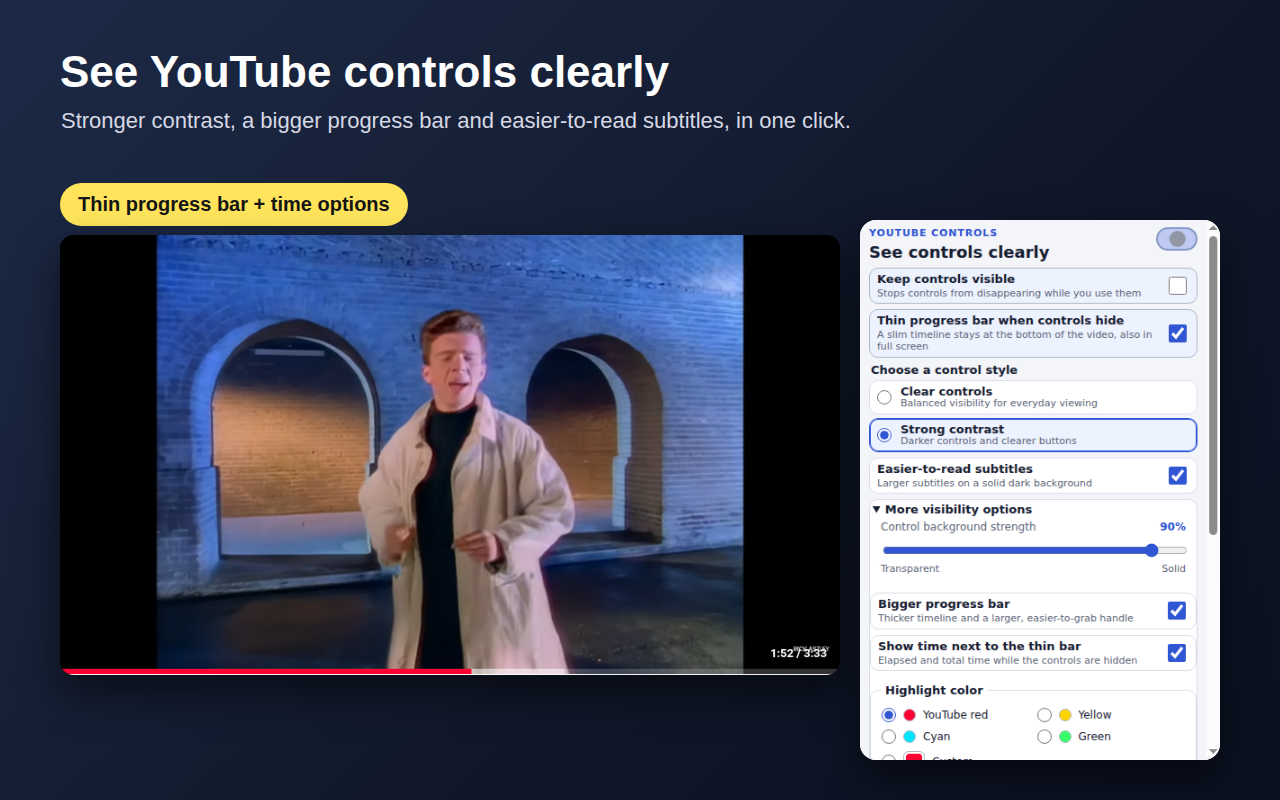
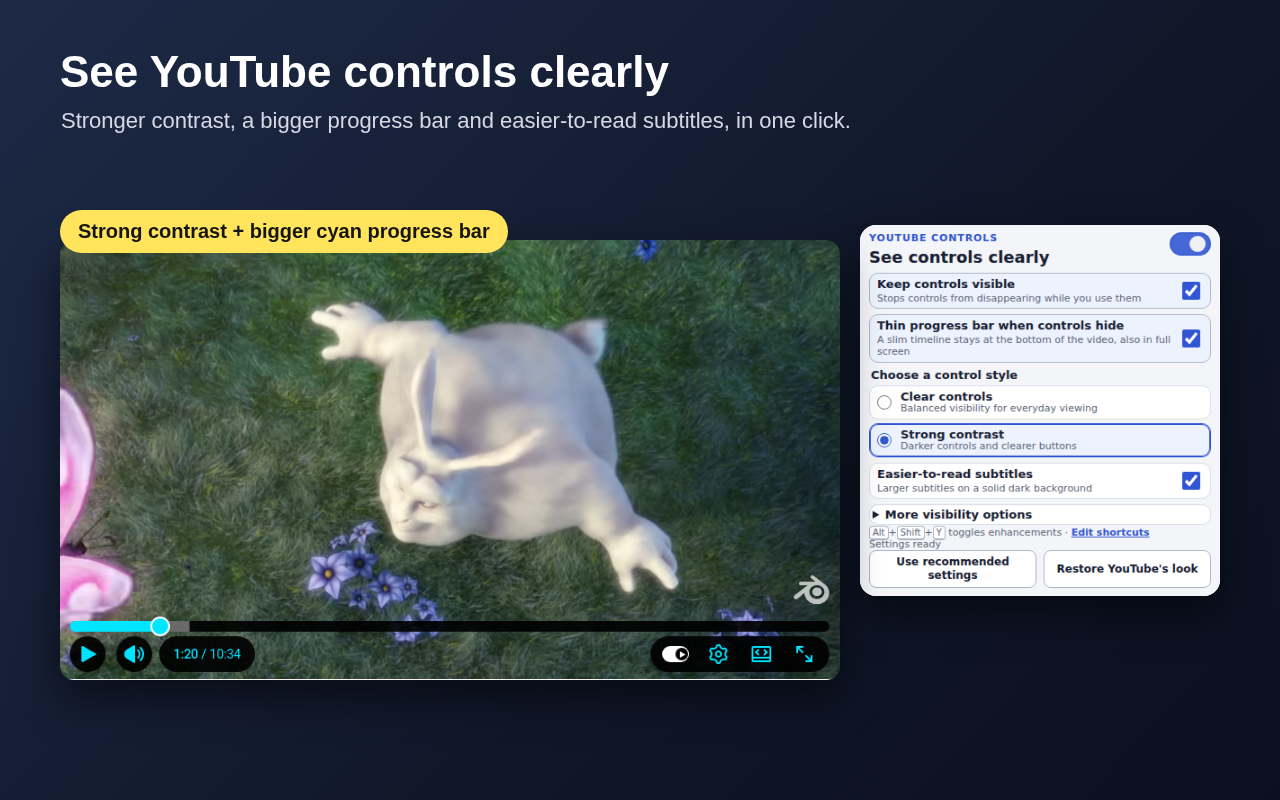
Fix store screenshot 2 popup state

diff --git a/store-assets/SCREENSHOTS_GUIDE.md b/store-assets/SCREENSHOTS_GUIDE.md
@@ -16,8 +16,9 @@ headlines and arranging real captures on a branded background is fine.
    Headline: **A progress bar that stays visible**. Subline: **Even when
    YouTube hides the controls, also in full screen**. Capture around 40–60% of
    a video and choose a scene where the red bar is easy to see.
-2. `screenshot2.png`: player with the current popup open, including the thin-bar
-   and time options. Re-capture it when popup rows change.
+2. `screenshot2.png`: player with the enabled popup open and the thin-bar option
+   checked. Keep “More visibility options” collapsed so the popup and its bottom
+   buttons fit without a scrollbar.
 3. `screenshot3.png`: before/after comparison of the clearer controls (previous
    `screenshot2.png`).
 4. `screenshot4.png`: highlight colors on the larger progress bar (previous
